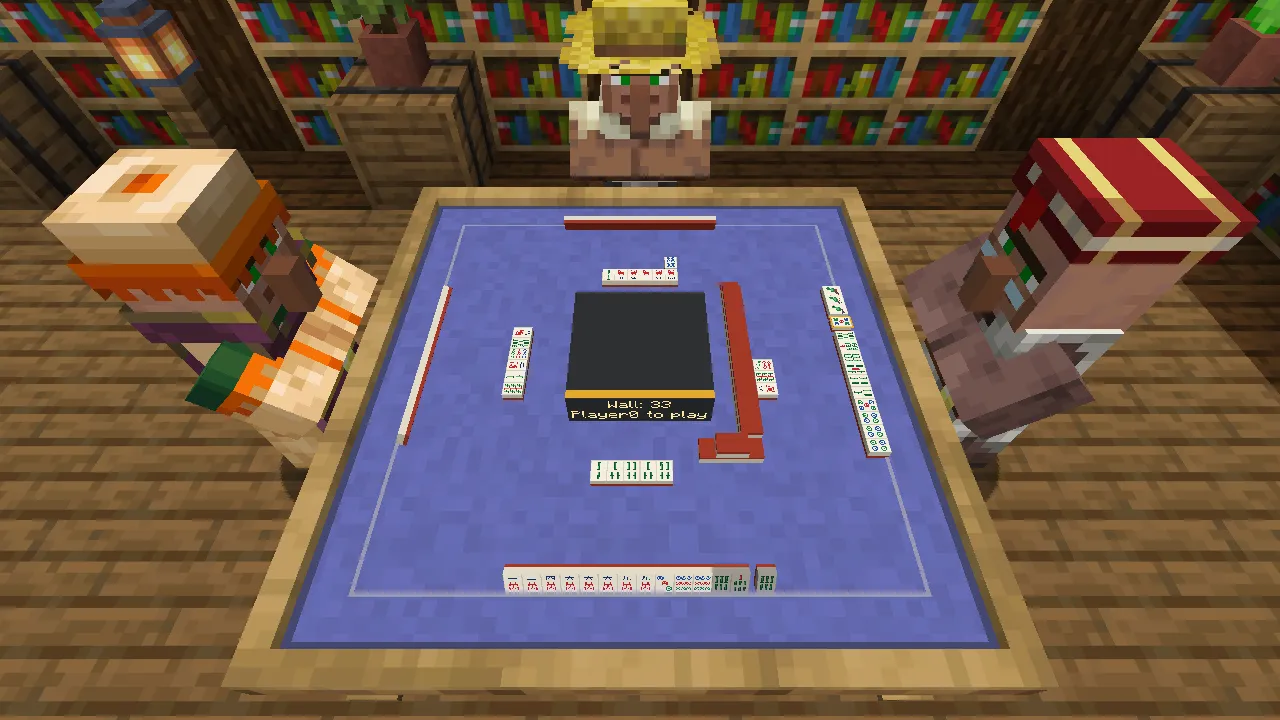
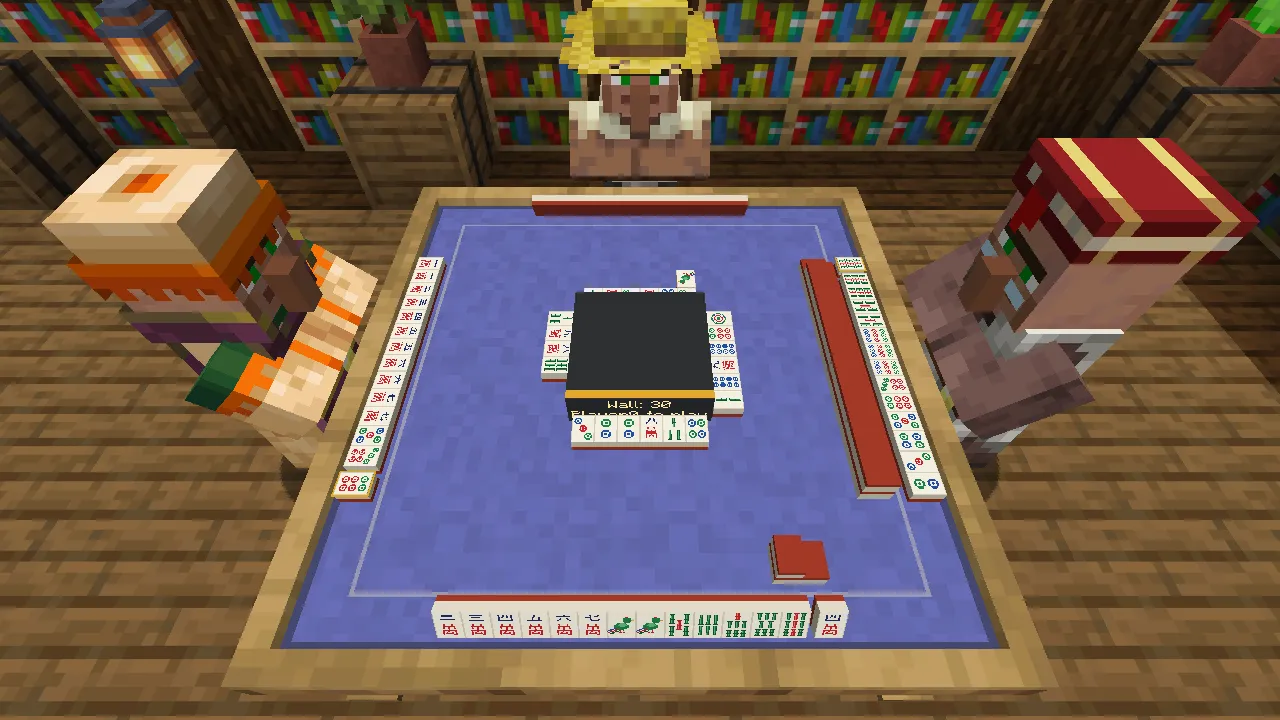
[feat](mahjong) Make the tiles bigger and easier to read
Tiles are 1.44 times as large. The wall now stands just in front of each hand and
the discards lie inside its square, in rows of six round the display, so a full
wall, four rows of discards and a hand of four kongs all fit without touching. In
the immersive view the prompt moves under the top box, clear of the tiles. The
client test also looks at the table from a side seat at the start, in the middle
and at the end of the hand.

Changed region(s): [[0.375, 0.2444, 0.75, 0.7028], [0.3125, 0.7333, 0.6875, 0.8861], [0.25, 0.3361, 0.375, 0.7028]]

diff --git a/common/src/main/kotlin/io/github/konyaco/tukuai/client/mahjong/MjUi.kt b/common/src/main/kotlin/io/github/konyaco/tukuai/client/mahjong/MjUi.kt
@@ -47,10 +47,10 @@ object MjUi : GameUi {
     fun ownKey(tile: Tile, copy: Int): Int = OWN_KEYS + tile.id * 4 + copy
 
     /**
-     * The table as at a real game: the wall, two tiles high, in a square round the display
-     * that shrinks as tiles are drawn; each hand standing at its owner's edge with the melds
-     * lying to its right; and the discards in rows of six in front of each player. A winner's
-     * hand lies face up, and once the hand is over every hand does.
+     * The table as at a real game: each hand standing at its owner's edge with the melds lying
+     * to its right, the wall two tiles high in front of it, shrinking as tiles are drawn, and
+     * the discards inside the square of the wall, in rows of six in front of each player. A
+     * winner's hand lies face up, and once the hand is over every hand does.
      */
     override fun scene(table: ClientTable, seats: List<SeatPlace>): List<TableCard> {
         val view = table.view as? ScView ?: return emptyList()
@@ -109,15 +109,14 @@ object MjUi : GameUi {
     private fun wall(cards: MutableList<TableCard>, view: ScView, seats: List<SeatPlace>, back: Int) {
         val ring = listOf(Direction.SOUTH, Direction.EAST, Direction.NORTH, Direction.WEST)
         val start = ring.indexOf(seats[view.dealer].side).coerceAtLeast(0)
-        val inner = WALL_DISTANCE - TILE_H / 2
         for (p in view.drawnFront until view.wallSize - view.drawnBack) {
             val side = ring[(start + p / PER_SIDE) % 4]
             val q = p % PER_SIDE
             val stack = q / 2
             // The top of each stack is drawn first; an odd tile at the end lies alone.
             val level = if (q == PER_SIDE - 1) 0 else 1 - q % 2
-            // Each side runs on to the corner of the next, in a pinwheel.
-            val along = -inner + TILE_W * (stack + 0.5f)
+            // Each side runs along its player's edge, towards the next side round the table.
+            val along = (stack - (WALL_STACKS - 1) / 2f) * TILE_W
             val tx = side.stepZ.toFloat()
             val tz = -side.stepX.toFloat()
             val x = side.stepX * WALL_DISTANCE + tx * along
@@ -196,7 +195,7 @@ object MjUi : GameUi {
             index == view.melds[seat].size - 1
     }
 
-    /** One seat's discards in rows of six, the first row nearest the wall. */
+    /** One seat's discards in rows of six, the first row nearest the display in the middle. */
     private fun discards(cards: MutableList<TableCard>, view: ScView, seat: Seat, place: SeatPlace, back: Int) {
         val f = Frame(place)
         val tiles = view.discards[seat]
@@ -255,25 +254,33 @@ object MjUi : GameUi {
         }
     }
 
-    /** Scale of a tile on the table: a quarter of a card's width. */
-    const val TILE_SCALE = 0.25f
+    /** Scale of a tile on the table: a bit over a third of a card's width. */
+    const val TILE_SCALE = 0.36f
 
     // Distances are from the middle of the 3-block table; its cloth reaches 1.375 out.
     private const val TILE_W = 0.3f * TILE_SCALE
     private const val TILE_H = TILE_W * 44f / 32f
     private const val TILE_T = 0.2f * TILE_SCALE
 
-    /** Distance of the middle of the wall from the middle of the table: 14 stacks make a side of a square. */
-    private const val WALL_DISTANCE = 14 * TILE_W / 2
+    /**
+     * Distance of the middle of each side of the wall from the middle of the table: just in
+     * front of the hand, leaving the square inside it for the discards.
+     */
+    private const val WALL_DISTANCE = 1.05f
     private const val PER_SIDE = 27
-    private const val DISCARD_START = WALL_DISTANCE + TILE_H / 2 + 0.015f
+    private const val WALL_STACKS = 14
+
+    /** The discards start just past the display in the middle, see [io.github.konyaco.tukuai.client.render.TableArt.DISPLAY_HALF_WIDTH]. */
+    private const val DISCARD_START = 0.36f
     private const val DISCARD_ROW = 6
     private const val MAX_ROWS = 4
     private const val ROW_GAP = 0.004f
 
-    /** How deep the discards may reach before they would touch the hand. */
-    private const val DISCARD_DEPTH = 0.43f
-    private const val HAND_DISTANCE = 1.12f
+    /** How deep the discards may reach before they would touch the wall. */
+    private const val DISCARD_DEPTH = WALL_DISTANCE - TILE_H / 2 - DISCARD_START - 0.012f
+
+    /** The hand stands just behind the wall; flat melds and a winner's hand reach towards the edge. */
+    private const val HAND_DISTANCE = 1.27f
     private const val HAND_TILT = 65f
     private const val APART = 0.03f
     private const val MELD_GAP = 0.02f

diff --git a/versions/26.1.2/fabric/src/gametest/kotlin/io/github/konyaco/tukuai/fabric/test/TuKuaiClientGameTest.kt b/versions/26.1.2/fabric/src/gametest/kotlin/io/github/konyaco/tukuai/fabric/test/TuKuaiClientGameTest.kt
@@ -492,6 +492,7 @@ class TuKuaiClientGameTest : FabricClientGameTest {
         shot(context, "mj-2-world-dealing")
         context.waitTicks(40)
         shot(context, "mj-3-world-dealt")
+        sideShot(context, server, table, "mj-3b-world-side-dealt")
 
         val mahjong = { ClientTables[table]?.view as? ScView }
         val send = { action: ScAction -> act(server, table, TableOp.ACT, data = ScCodecs.ACTION.encode(action)) }
@@ -584,6 +585,7 @@ class TuKuaiClientGameTest : FabricClientGameTest {
         context.setScreen { null }
         context.waitTicks(5)
         shot(context, "mj-10-world-midgame")
+        sideShot(context, server, table, "mj-10b-world-side-midgame")
 
         var waited = 0
         while (status(server, table) != TableStatus.FINISHED) {
@@ -601,6 +603,7 @@ class TuKuaiClientGameTest : FabricClientGameTest {
         context.setScreen { null }
         context.waitTicks(10)
         shot(context, "mj-12-world-result")
+        sideShot(context, server, table, "mj-12b-world-side-result")
 
         act(server, table, TableOp.REPLAY)
         context.waitFor({ it.screen is ReplayScreen }, 100)
@@ -613,6 +616,27 @@ class TuKuaiClientGameTest : FabricClientGameTest {
         shot(context, "mj-13-replay")
         context.setScreen { null }
         act(server, table, TableOp.AUTO, 0)
+    }
+
+    /**
+     * Stands up, looks at the table from beside the east seat, and sits back down; standing
+     * up mid-hand pauses it, so nothing moves meanwhile.
+     */
+    private fun sideShot(context: ClientGameTestContext, server: TestServerContext, table: BlockPos, name: String) {
+        val screen = context.computeOnClient<Boolean, RuntimeException> { it.screen != null }
+        context.setScreen { null }
+        act(server, table, TableOp.STAND)
+        context.waitTicks(5)
+        moveTo(server, table.east(2))
+        context.waitTicks(5)
+        context.input.lookAt(table)
+        context.waitTicks(10)
+        shot(context, name)
+        act(server, table, TableOp.SIT, 0)
+        context.waitFor({ ClientTables[table]?.snapshot?.paused != true }, 100)
+        context.waitTicks(5)
+        context.input.lookAt(table)
+        if (screen) context.setScreen { TableScreen(table) }
     }
 
     /**

diff --git a/common/src/main/kotlin/io/github/konyaco/tukuai/client/mahjong/MjPanel.kt b/common/src/main/kotlin/io/github/konyaco/tukuai/client/mahjong/MjPanel.kt
@@ -338,7 +338,8 @@ class MjPanel(private val screen: PanelHost) : GamePanel {
             Place.TOP -> width / 2 - boxW / 2
             Place.RIGHT -> width - margin - boxW
         }
-        val y = if (place == Place.TOP) TOP_BOX_Y else SIDE_BOX_Y
+        // In the immersive view the side boxes sit a little lower, leaving the prompt room under the top one.
+        val y = if (place == Place.TOP) TOP_BOX_Y else if (compact) SIDE_BOX_Y + 6 else SIDE_BOX_Y
         val acting = live(table) && view.toAct == seat && !view.finished && view.phase != ScPhase.SWAP && view.phase != ScPhase.VOID
         g.fill(x - 2, y - 2, x + boxW + 2, y + BOX_H, if (acting) 0xA0806020.toInt() else 0x80202830.toInt())
         val name = PanelText.seatLabel(table, seat).string
@@ -433,9 +434,12 @@ class MjPanel(private val screen: PanelHost) : GamePanel {
         renderDiscards(g, view, me, width / 2 - MY_ROW * w / 2, buttonY() - 24 - rows * h, MY_ROW)
     }
 
-    /** What this turn asks of you, or whom everyone waits for, over the buttons. */
+    /**
+     * What this turn asks of you, or whom everyone waits for: over the buttons, or in the
+     * immersive view under the top box, clear of your tiles on the table.
+     */
     private fun renderPrompt(g: GuiGraphicsExtractor, table: ClientTable, view: ScView) {
-        val y = buttonY() - 11
+        val y = if (screen.inWorld) TOP_BOX_Y + BOX_H + 12 else buttonY() - 11
         val mine = asked(table, view)
         val text: Component? = when (view.phase) {
             ScPhase.SWAP -> if (mine) Component.translatable("tukuai.mahjong.note.swap") else waitingFor(table, view)
